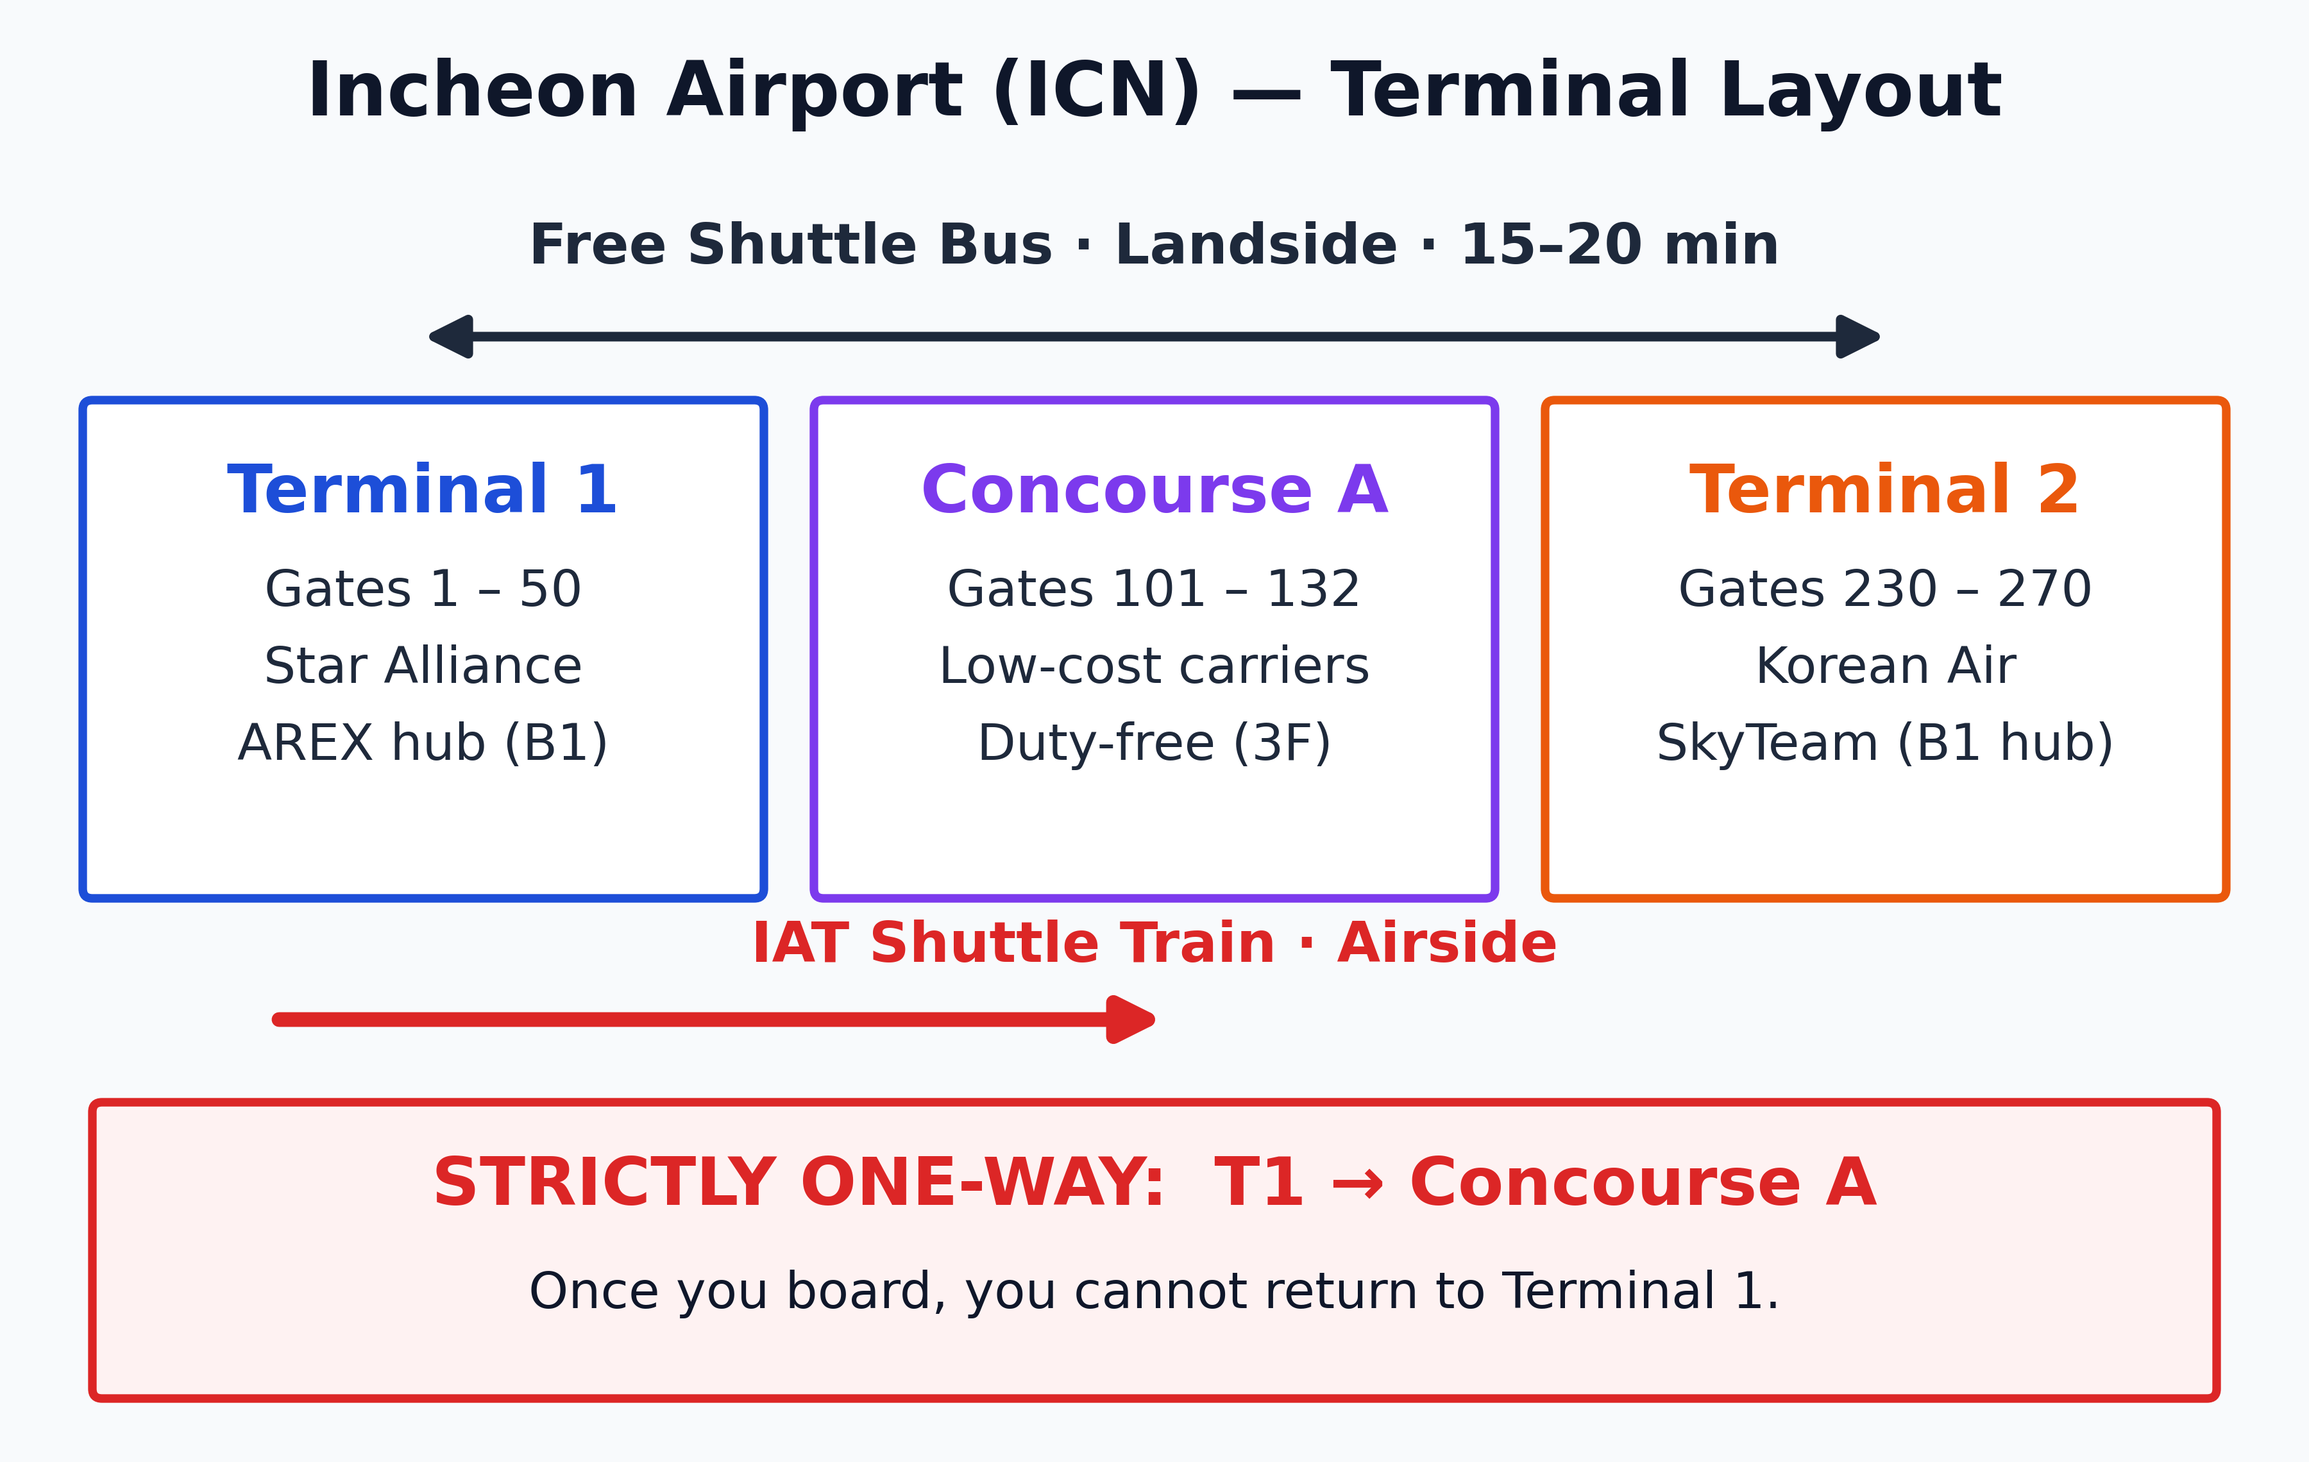
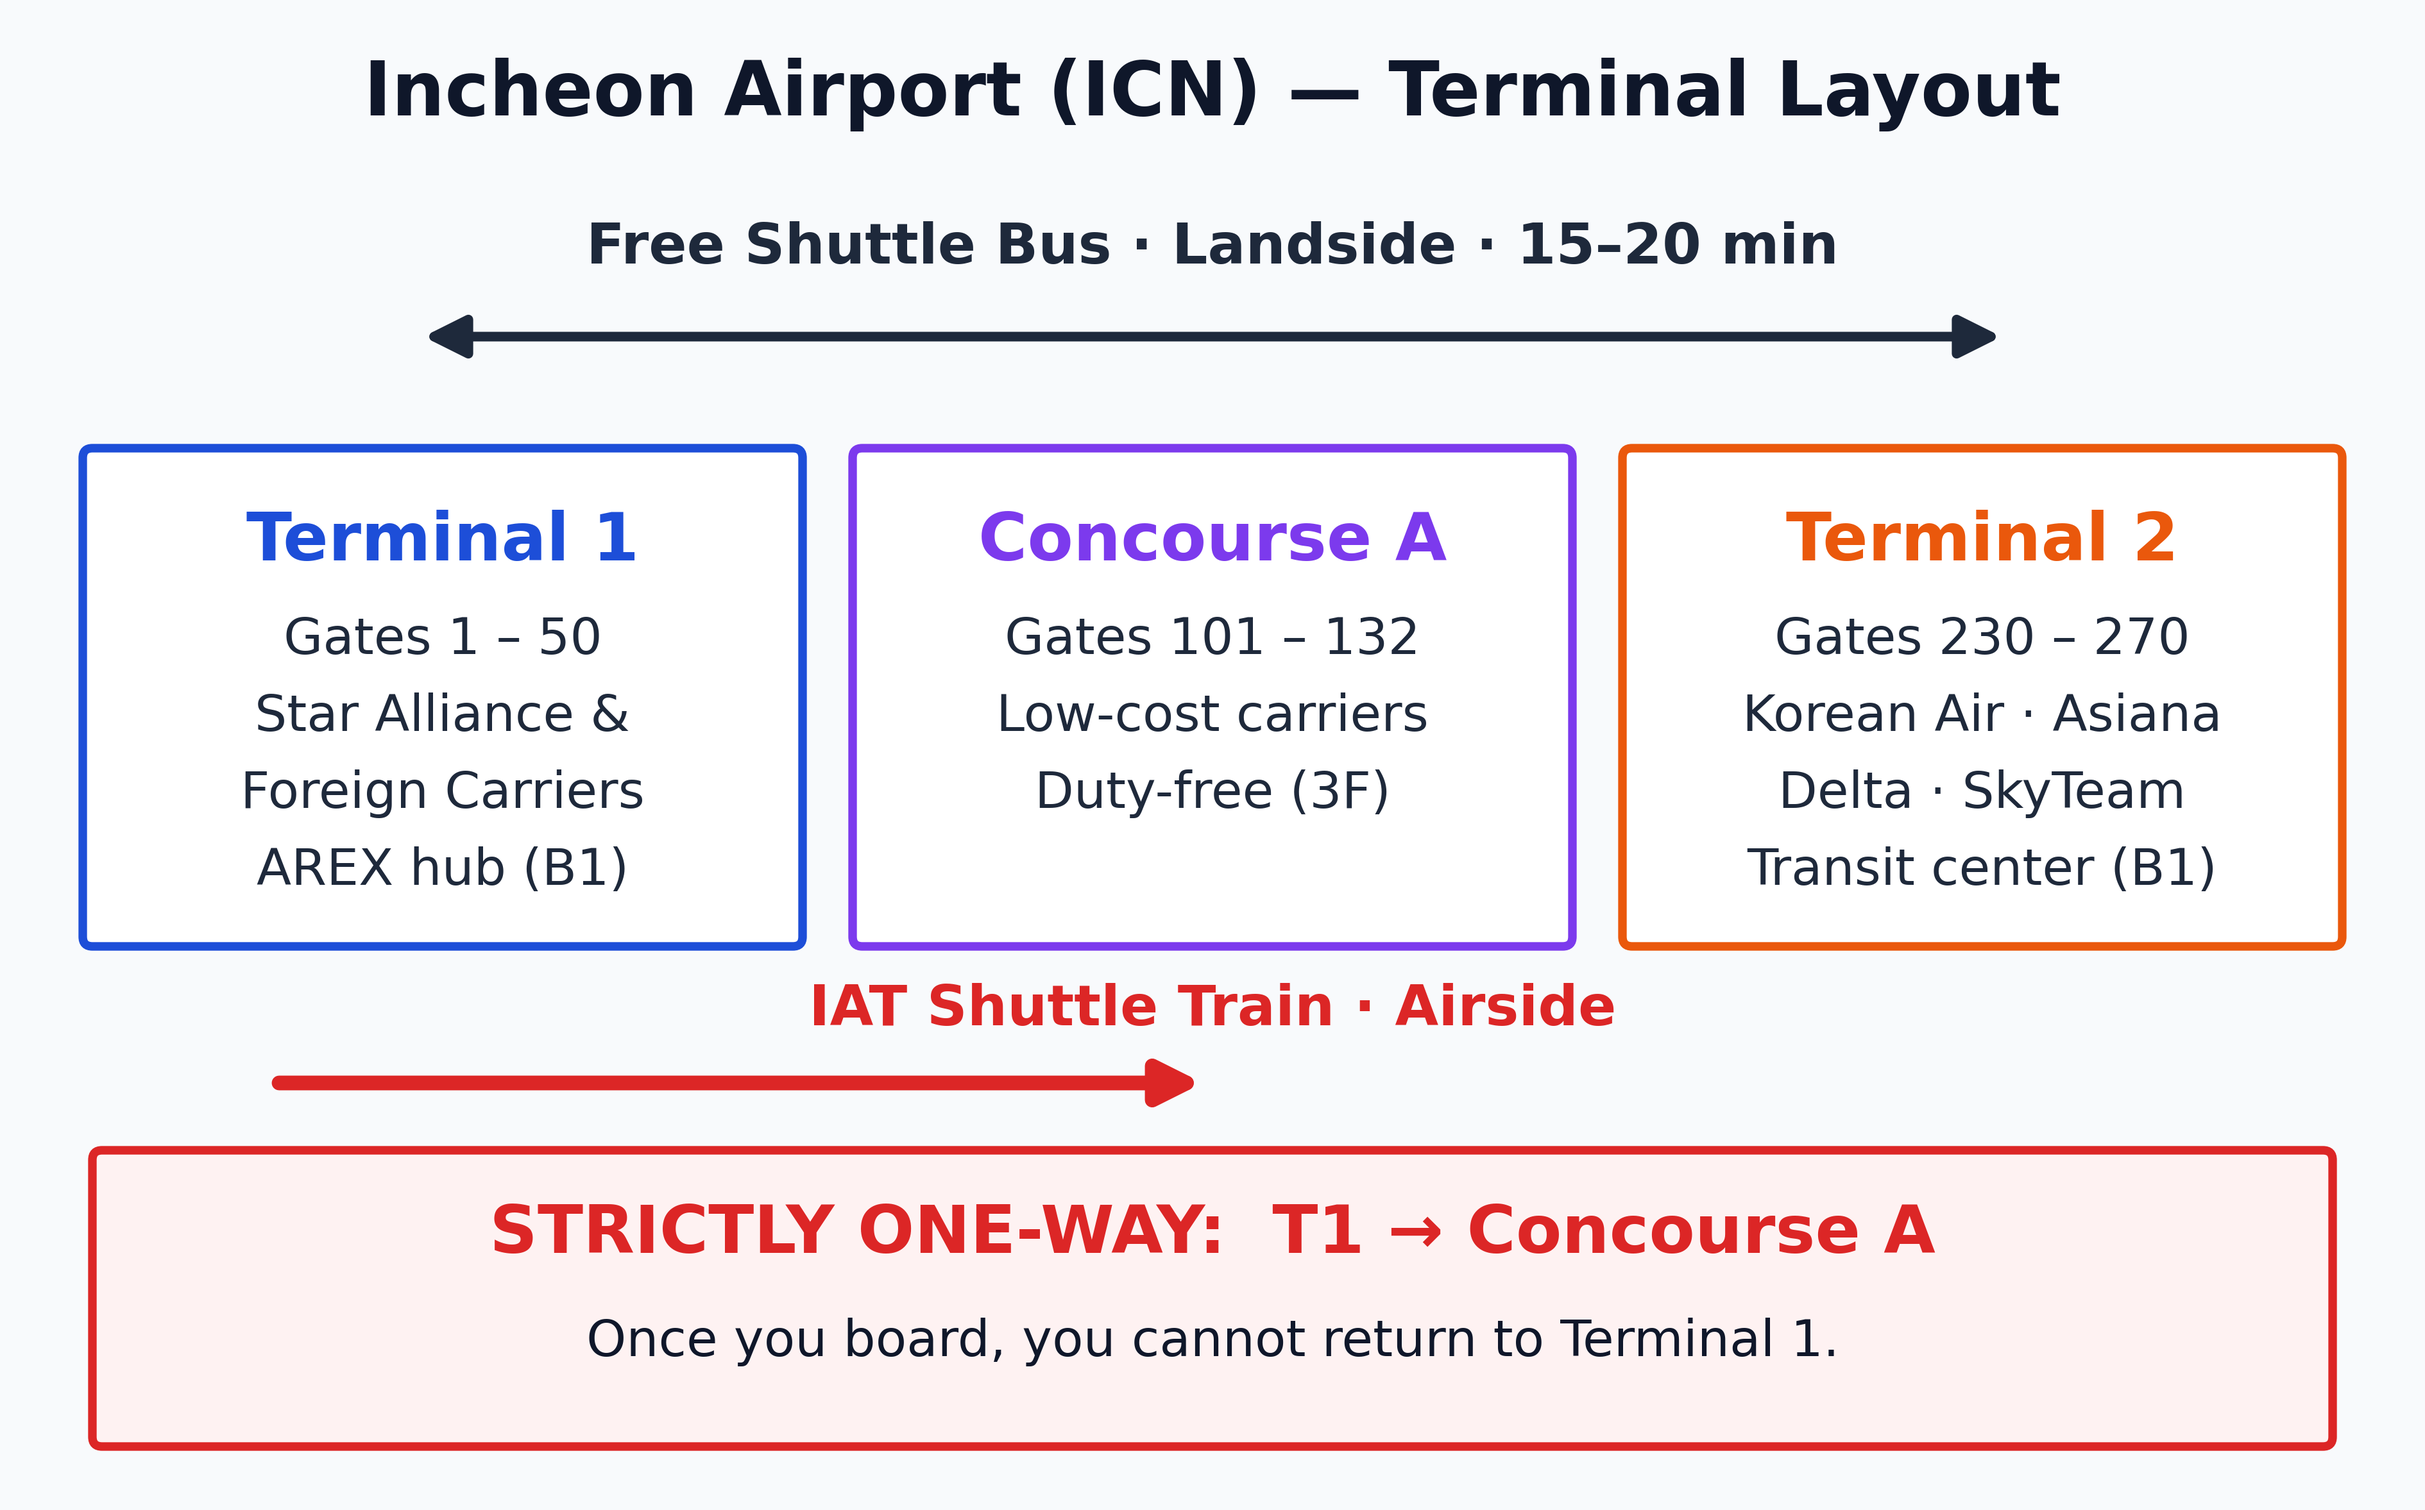
fix: update Asiana Airlines to T2 and clarify Climate Card airport boarding rule
- 표: T1 은 스타얼라이언스 외항사 중심으로, T2 에 아시아나를 넣는다
- 1절 도입 뒤 Terminal Update 콜아웃 추가(다이어그램 앞 — 터미널을 고르는
  판단이 layout 을 보기 전에 와야 한다)
- 다이어그램 재생성: T1 "Star Alliance & Foreign Carriers",
  T2 "Korean Air · Asiana / Delta · SkyTeam". 글자가 길어져 상자 폭 3.5 → 3.7
- 기후동행카드: 공항에서 AREX 탑승 불가(하차 전용)임을 명시하고 대안을 적는다

diff --git a/scripts/gen_icn_diagrams.py b/scripts/gen_icn_diagrams.py
@@ -108,7 +108,7 @@ def arrow(ax, p1, p2, color, style="-|>", lw=5.0):
 
 
 def diagram_terminals(path: Path):
-    W, H = 12.0, 7.6
+    W, H = 12.6, 7.85
     fig, ax = new_canvas(W, H)
 
     ax.text(W / 2, H - 0.30, "Incheon Airport (ICN) — Terminal Layout",
@@ -119,21 +119,22 @@ def diagram_terminals(path: Path):
             ha="center", va="top", fontsize=F_LEAD, fontweight="bold", color=INK_SOFT)
     arrow(ax, (2.2, H - 1.75), (W - 2.2, H - 1.75), INK_SOFT, style="<|-|>", lw=3.6)
 
-    bw, gap = 3.5, 0.3
+    # 아시아나는 T2 로 이전했다 — T1 은 스타얼라이언스 외항사 중심이다
+    bw, gap = 3.7, 0.3
     y, h = 2.95, 2.55
     x0 = (W - (bw * 3 + gap * 2)) / 2
     box(ax, x0, y, bw, h, BLUE, "Terminal 1",
-        ["Gates 1 – 50", "Star Alliance", "AREX hub (B1)"])
+        ["Gates 1 – 50", "Star Alliance &", "Foreign Carriers", "AREX hub (B1)"])
     box(ax, x0 + bw + gap, y, bw, h, PURPLE, "Concourse A",
         ["Gates 101 – 132", "Low-cost carriers", "Duty-free (3F)"])
     box(ax, x0 + (bw + gap) * 2, y, bw, h, ORANGE, "Terminal 2",
-        ["Gates 230 – 270", "Korean Air", "SkyTeam (B1 hub)"])
+        ["Gates 230 – 270", "Korean Air · Asiana", "Delta · SkyTeam", "Transit center (B1)"])
 
     # 에어사이드 IAT 셔틀트레인 — T1 → 탑승동 편도.
     # 라벨은 화살표 위(상자 사이 빈 줄)에 두어 아래 경고 상자와 겹치지 않게 한다.
-    ax.text(W / 2, 2.82, "IAT Shuttle Train · Airside", ha="center", va="top",
+    ax.text(W / 2, 2.74, "IAT Shuttle Train · Airside", ha="center", va="top",
             fontsize=F_LEAD, fontweight="bold", color=RED)
-    arrow(ax, (x0 + 1.0, 2.30), (x0 + bw + gap + 1.8, 2.30), RED, lw=5.5)
+    arrow(ax, (x0 + 1.0, 2.22), (x0 + bw + gap + 1.8, 2.22), RED, lw=5.5)
 
     warn_title = "STRICTLY ONE-WAY:  T1 → Concourse A"
     warn_body = "Once you board, you cannot return to Terminal 1."

diff --git a/scripts/_post-incheon-airport-survival-guide.md b/scripts/_post-incheon-airport-survival-guide.md
@@ -6,6 +6,8 @@ Here are the five essential rules for clearing Incheon Airport and reaching down
 
 Incheon Airport operates across three main sections: Terminal 1 (T1), Concourse A, and Terminal 2 (T2). Understanding their connections prevents costly transit mistakes.
 
+> **Terminal Update**: Asiana Airlines now operates from **Terminal 2**. Do not head to T1 if flying Asiana. Always verify your boarding terminal prior to arrival.
+
 ![Incheon Airport Terminal and Transit Structure](/images/posts/icn-terminal-layout.png)
 
 > **Critical Warning: The IAT Shuttle Train is Strictly ONE-WAY**
@@ -13,9 +15,9 @@ Incheon Airport operates across three main sections: Terminal 1 (T1), Concourse 
 
 | Zone | Gates | Primary Airlines | Level Breakdown |
 | :--- | :--- | :--- | :--- |
-| **Terminal 1 (T1)** | 1 – 50 | Asiana Airlines, Star Alliance, foreign carriers | B1: AREX Train Hub<br/>1F: Arrivals & Buses<br/>3F: Departures |
+| **Terminal 1 (T1)** | 1 – 50 | Star Alliance foreign carriers (United, Singapore Airlines, Lufthansa), foreign airlines | B1: AREX Train Hub<br/>1F: Arrivals & Buses<br/>3F: Departures |
 | **Concourse A** | 101 – 132 | International Low-Cost Carriers (LCCs) | 3F: Duty-Free & Boarding Gates |
-| **Terminal 2 (T2)** | 230 – 270 | Korean Air, Delta Air Lines, SkyTeam partners | B1: Integrated Transit Center<br/>1F: Arrivals & Taxis<br/>3F: Departures |
+| **Terminal 2 (T2)** | 230 – 270 | Korean Air, Asiana Airlines, Delta Air Lines, SkyTeam partners | B1: Integrated Transit Center<br/>1F: Arrivals & Taxis<br/>3F: Departures |
 
 To travel between T1 and T2 landside (before security), take the **free airport shuttle bus** (T1 3F Exit 8 / T2 3F Exit 7). The trip takes approximately 15 to 20 minutes.
 
@@ -40,7 +42,7 @@ Transit cards can be purchased immediately at airport convenience stores or AREX
 ![T-money, Climate Card and WOWPASS transit cards used in Korea](/images/posts/korea-transit-cards.jpg)
 
 * **Short-term Climate Card (Tourist Pass)**
-  Available in 1-day (₩5,000), 2-day (₩8,000), 3-day (₩10,000), and 5-day (₩15,000) passes. Best for travelers planning 4+ subway or bus rides per day inside Seoul. Note that boarding AREX at Incheon Airport is excluded from the pass network; activate it upon entering central Seoul.
+  Available in 1-day (₩5,000), 2-day (₩8,000), 3-day (₩10,000), and 5-day (₩15,000) passes. Best for travelers planning 4+ subway or bus rides per day inside Seoul. Boarding AREX at Incheon Airport using the Climate Card is not permitted (get-off only). Purchase a single AREX ticket or reloadable T-Money/WOWPASS for the airport-to-city trip, then begin using your Climate Card within central Seoul.
 * **T-Money Card**
   The universal reloadable card for all subways, public buses, and taxis nationwide. Best for moderate transit usage or regional travel outside Seoul.
 * **WOWPASS**
